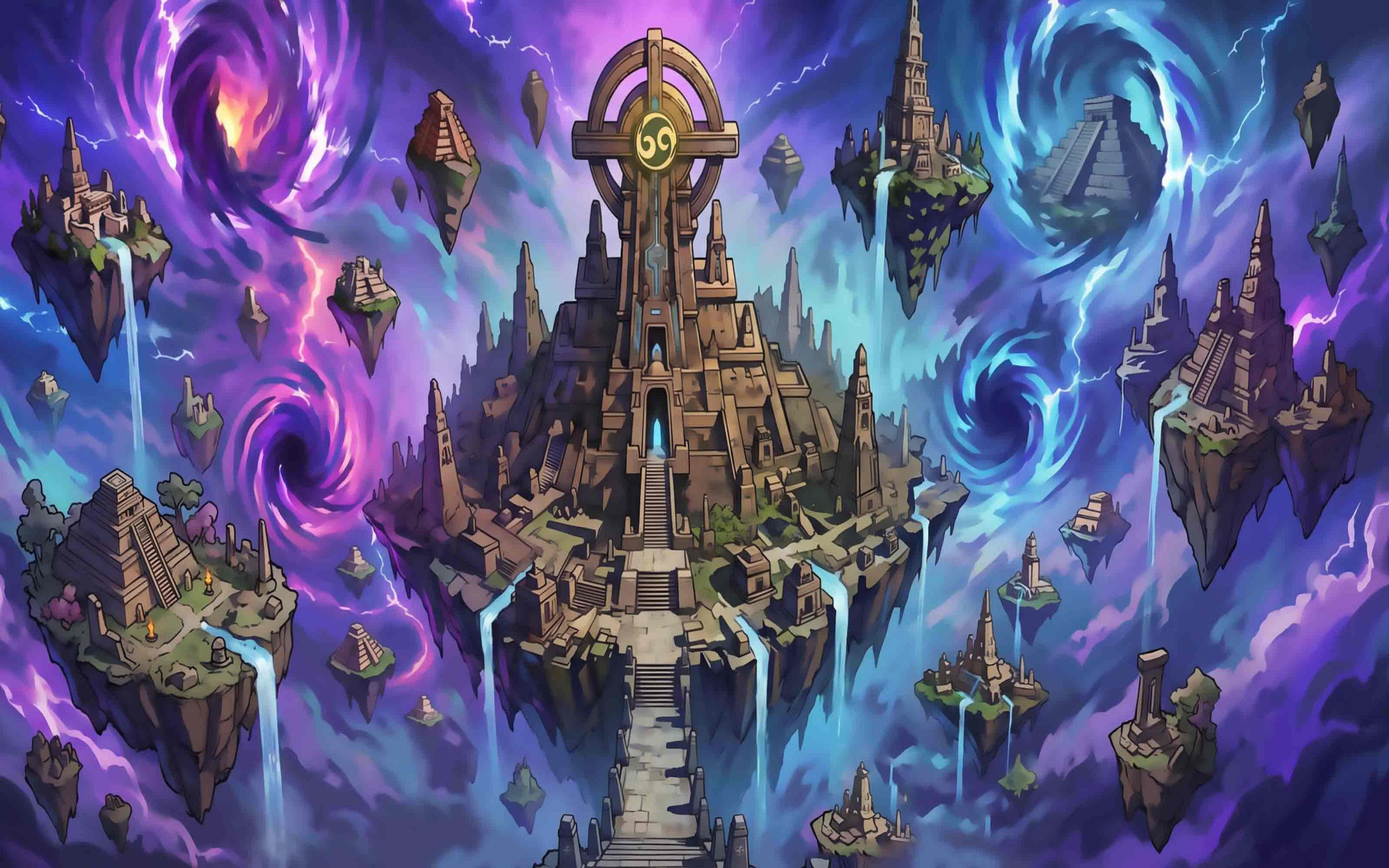
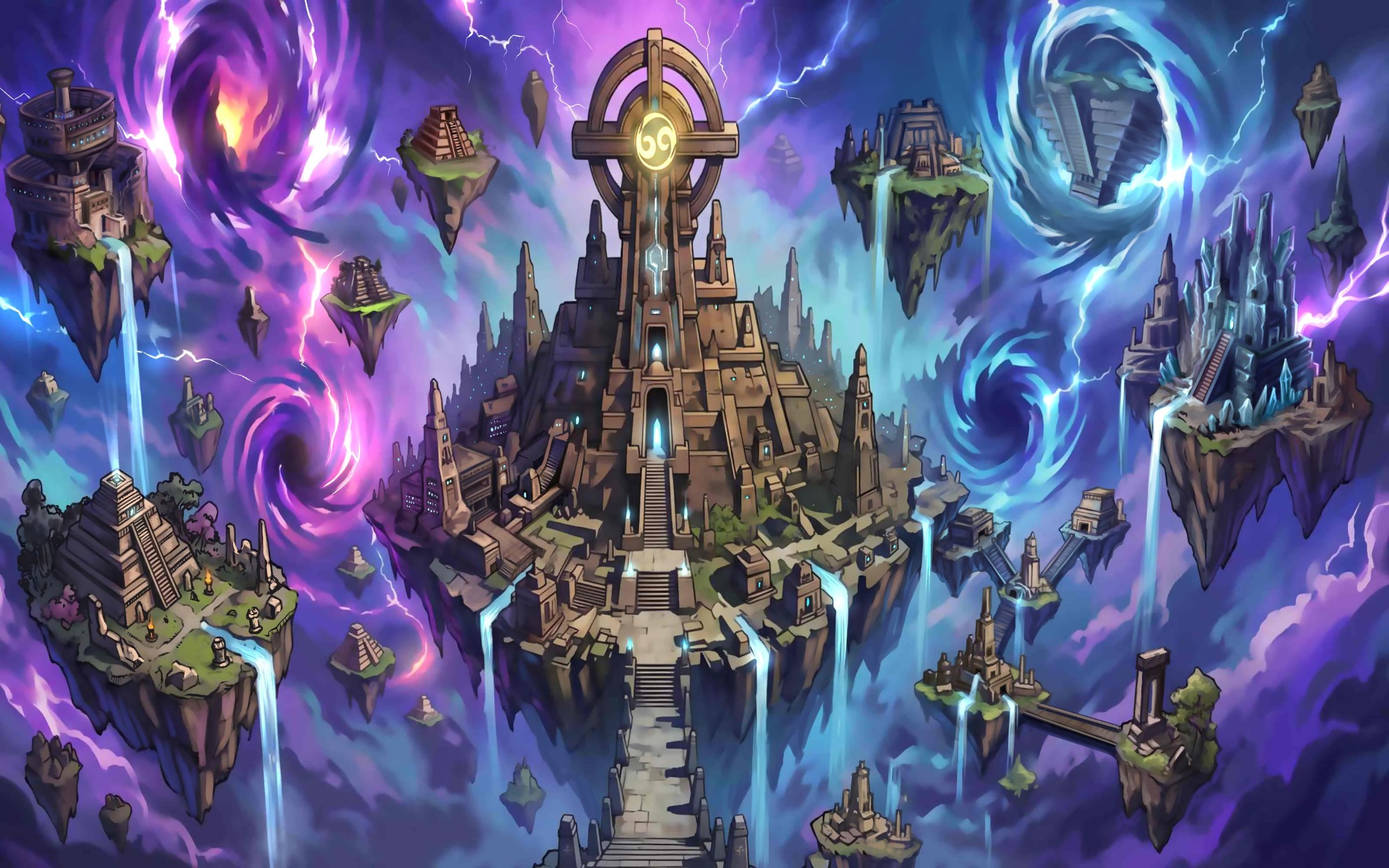
Add files via upload

diff --git a/nexotlan.html b/nexotlan.html
@@ -117,6 +117,39 @@ button{font-family:inherit;color:inherit;cursor:pointer;border:none;background:n
 .mapa::-webkit-scrollbar{display:none}
 .mapa.drag{cursor:grabbing}
 .mi{position:relative;margin:0 auto;transform-origin:0 0}
+/* v200 · Mapa animado (capaFx) */
+.mfx{position:absolute;inset:0;overflow:hidden;pointer-events:none;contain:strict}
+.mfx>*{position:absolute;will-change:transform,opacity}
+.fx-nube{left:-48%;opacity:var(--o);border-radius:50%;background:radial-gradient(ellipse at 50% 50%,rgba(232,220,255,.85),rgba(200,190,255,.35) 45%,transparent 70%);animation:fxCruza linear infinite}
+.fx-nube.niebla{background:radial-gradient(ellipse at 50% 55%,rgba(220,225,255,.9),rgba(205,200,255,.4) 45%,transparent 70%)}
+@keyframes fxCruza{from{transform:translateX(0)}to{transform:translateX(calc(100vw * 0 + 360%))}}
+.fx-niebla-base{left:0;right:0;bottom:0;height:22%;background:linear-gradient(to top,rgba(200,195,255,.42),transparent);animation:fxRespira 9s ease-in-out infinite}
+@keyframes fxDeriva{from{transform:translateX(0)}to{transform:translateX(-50%)}}
+@keyframes fxRespira{0%,100%{opacity:.55}50%{opacity:1}}
+.fx-remo{aspect-ratio:1;translate:-50% -50%;opacity:.2;border-radius:50%;
+  background:conic-gradient(from 0deg,transparent 0 8%,var(--c) 14%,transparent 26% 40%,var(--c) 48%,transparent 60% 74%,var(--c) 82%,transparent 94%);
+  -webkit-mask:radial-gradient(circle,transparent 12%,#000 26%,#000 46%,transparent 70%);mask:radial-gradient(circle,transparent 12%,#000 26%,#000 46%,transparent 70%);
+  animation:fxGira 26s linear infinite}
+.fx-remo:nth-of-type(even){animation-direction:reverse;animation-duration:34s}
+@keyframes fxGira{to{transform:rotate(360deg)}}
+.fx-brillo{aspect-ratio:1;translate:-50% -50%;border-radius:50%;background:radial-gradient(circle,var(--c) 0%,color-mix(in srgb,var(--c) 45%,transparent) 28%,transparent 68%);
+  animation:fxLatido ease-in-out infinite}
+@keyframes fxLatido{0%,100%{opacity:.32;transform:scale(.88)}50%{opacity:.85;transform:scale(1.08)}}
+.fx-agua{overflow:hidden;translate:-50% 0;opacity:.6;border-radius:40%;
+  -webkit-mask:linear-gradient(to bottom,transparent,#000 12%,#000 80%,transparent);mask:linear-gradient(to bottom,transparent,#000 12%,#000 80%,transparent)}
+.fx-agua i{position:absolute;left:0;right:0;top:0;height:35%;background:linear-gradient(to bottom,transparent,rgba(255,255,255,.75),transparent);animation:fxCae linear infinite}
+@keyframes fxCae{from{transform:translateY(-110%)}to{transform:translateY(300%)}}
+.fx-chispa{width:10px;height:10px;border-radius:50%;background:radial-gradient(circle,#fff 0 18%,var(--c) 30%,transparent 70%);opacity:0;animation:fxSube ease-in-out infinite}
+@keyframes fxSube{0%{opacity:0;transform:translate(0,0)}20%{opacity:.9}80%{opacity:.6}100%{opacity:0;transform:translate(14px,-90px)}}
+.fx-rayos{inset:0;width:100%;height:100%;will-change:auto}
+.fx-rayo polyline{fill:none;stroke-linejoin:round;stroke-linecap:round}
+.fx-rayo .f{fill:var(--c);opacity:.22}
+.fx-rayo .h{stroke:var(--c);stroke-width:18;opacity:.32}
+.fx-rayo .r{stroke:var(--c);stroke-width:3}
+.fx-rayo .n{stroke:#fff;stroke-width:3.6}
+.fx-rayo{animation:fxDestello .9s ease-out forwards}
+@keyframes fxDestello{0%{opacity:0}6%{opacity:1}14%{opacity:.15}22%{opacity:1}55%{opacity:.7}100%{opacity:0}}
+@media (prefers-reduced-motion:reduce){.mfx{display:none}}
 .mi>svg,.mi>img.fondo{position:absolute;inset:0;width:100%;height:100%;display:block}
 .mi>img.fondo{object-fit:cover}
 .lock-layer{position:absolute;inset:0;width:100%;height:100%;pointer-events:none}
@@ -1028,10 +1061,98 @@ const PIN = {
   guardian: c => `<svg viewBox="0 0 46 46"><circle cx="23" cy="23" r="20" fill="url(#rg)" stroke="#fff" stroke-width="3"/><defs><radialGradient id="rg" cx="40%" cy="35%"><stop offset="0" stop-color="#ff8aa2"/><stop offset=".55" stop-color="#ff2f5a"/><stop offset="1" stop-color="#8a0020"/></radialGradient></defs><path d="M23 9l4.2 8.6 9.4 1.3-6.8 6.6 1.6 9.4L23 30.4l-8.4 4.5 1.6-9.4-6.8-6.6 9.4-1.3z" fill="#ffd166" stroke="#7a3a00" stroke-width="1.5"/></svg>`
 };
 
+// ════════════════ MAPA ANIMADO (v200) ════════════════
+// Capas ligeras sobre la ilustración del mapa: neblina baja, nubes, relámpagos de energía, brillos que palpitan,
+// remolinos que giran, cascadas con reflejos y chispas flotantes. Solo transform/opacity (las mueve la tarjeta gráfica).
+// [config] de mapa.txt (todo opcional; sin campos se usan las posiciones del mapa de Nexotlan):
+//   fx            si | no   (no = mapa fijo)
+//   fx_brillos    x,y,tamaño,color | …        brillos que palpitan (en %, tamaño en % del ancho)
+//   fx_remolinos  x,y,tamaño,color | …        remolinos que giran despacio
+//   fx_cascadas   x,y_arriba,y_abajo,ancho | … reflejos que bajan por las cascadas
+//   fx_relampagos x,y | …                     zonas donde caen los relámpagos de energía
+const FX_DEF = {
+  brillos: '47,16,7,#ffd36a | 47,39,2.2,#7ff0ff | 47,49.5,2.6,#7ff0ff | 16,14,9,#ff9a3c | 20,47,8,#ff5ad2 | 78,13,9,#5fe6ff | 72,48,8,#4fa8ff | 10.5,72,1.4,#ffb347',
+  remolinos: '16.5,14,17,#c86bff | 20,47,15,#ff5ad2 | 78,14,18,#46d8ff | 72,48,15,#3f8cff',
+  cascadas: '9.5,26,52,.9 | 19.5,72,97,1.2 | 35,69,92,1.1 | 53.6,72,95,1.1 | 66,61,80,.9 | 63.6,20,37,.9 | 83.3,46,75,1 | 70,77,92,.8 | 72.4,78,91,.8',
+  relampagos: '9,7 | 24,30 | 37,4 | 57,6 | 62,3 | 66,28 | 85,7 | 90,20 | 96,37 | 30,44'
+};
+const FX_T0 = Date.now();
+const fxLista = (v, n) => String(v || '').split('|').map(s => s.split(',').map(x => x.trim())).filter(a => a.length >= n && a.slice(0, n).every(x => x !== '' && isFinite(+x)));
+const fxDelay = d => '-' + (((Date.now() - FX_T0) / 1000) % d).toFixed(2) + 's';   // las animaciones siguen donde iban aunque el mapa se vuelva a dibujar
+function fxActivo() {
+  if (/^(no|off|0|false)$/i.test(String(CFG.fx || '').trim())) return false;
+  try { if (matchMedia('(prefers-reduced-motion: reduce)').matches) return false; } catch (e) {}
+  return true;
+}
+function capaFx() {
+  if (!CFG.mapa || !fxActivo()) return '';
+  const V = k => (CFG['fx_' + k] != null && String(CFG['fx_' + k]).trim() !== '') ? CFG['fx_' + k] : FX_DEF[k];
+  let h = '';
+  // Nubes (arriba y en medio) y neblina baja: bandas suaves que se desplazan en ciclo
+  // Nubes (cielo) y neblina (parte baja): manchas suaves que cruzan el mapa despacio, repartidas en el tiempo
+  const NUBES = [[4, 30, 16, 120, .22], [18, 26, 14, 150, .18], [34, 34, 18, 110, .16], [46, 28, 15, 135, .2], [55, 24, 12, 160, .15]];   // y, ancho, alto, segundos, opacidad
+  NUBES.forEach(([y, w, hh, d, o], i) => { h += `<div class="fx-nube" style="top:${y}%;width:${w}%;height:${hh}%;--o:${o};animation-duration:${d}s;animation-delay:-${((Date.now() - FX_T0) / 1000 + d * i / NUBES.length) % d}s"></div>`; });
+  const NIEBLA = [[68, 40, 22, 80, .42], [74, 46, 24, 64, .5], [80, 38, 22, 92, .45], [86, 44, 20, 58, .5], [70, 34, 18, 104, .35], [90, 40, 18, 72, .55]];
+  NIEBLA.forEach(([y, w, hh, d, o], i) => { h += `<div class="fx-nube niebla" style="top:${y}%;width:${w}%;height:${hh}%;--o:${o};animation-duration:${d}s;animation-delay:-${((Date.now() - FX_T0) / 1000 + d * i / NIEBLA.length) % d}s${i % 2 ? ';animation-direction:reverse' : ''}"></div>`; });
+  h += `<div class="fx-niebla-base" style="animation-delay:${fxDelay(9)}"></div>`;
+  // Remolinos
+  fxLista(V('remolinos'), 3).forEach(([x, y, t, c], i) => {
+    h += `<div class="fx-remo" style="left:${x}%;top:${y}%;width:${t}%;--c:${/^#[0-9a-f]{3,8}$/i.test(c || '') ? c : '#c86bff'};animation-delay:${fxDelay(i % 2 ? 34 : 26)}"></div>`;
+  });
+  // Brillos que palpitan
+  fxLista(V('brillos'), 3).forEach(([x, y, t, c], i) => {
+    const d = 2.6 + (i % 4) * .7;
+    h += `<div class="fx-brillo" style="left:${x}%;top:${y}%;width:${t}%;--c:${/^#[0-9a-f]{3,8}$/i.test(c || '') ? c : '#ffd36a'};animation-duration:${d}s;animation-delay:${fxDelay(d)}"></div>`;
+  });
+  // Cascadas
+  fxLista(V('cascadas'), 3).forEach(([x, y1, y2, w], i) => {
+    const d = 1.6 + (i % 3) * .35;
+    h += `<div class="fx-agua" style="left:${x}%;top:${y1}%;height:${Math.max(1, y2 - y1)}%;width:${+w || 1}%"><i style="animation-duration:${d}s;animation-delay:${fxDelay(d)}"></i></div>`;
+  });
+  // Chispas de energía que flotan
+  for (let i = 0; i < 22; i++) {
+    const x = (i * 37 + 11) % 97 + 1.5, y = 30 + (i * 53) % 65, d = 9 + (i % 5) * 2.2;
+    h += `<i class="fx-chispa" style="left:${x}%;top:${y}%;animation-duration:${d}s;animation-delay:${fxDelay(d)};--c:${i % 3 ? '#9fe8ff' : '#e6a8ff'}"></i>`;
+  }
+  return `<div class="mfx" aria-hidden="true">${h}<svg class="fx-rayos" viewBox="0 0 1600 1000" preserveAspectRatio="xMidYMid slice"></svg></div>`;
+}
+// Relámpagos de energía: se dibujan al azar cada pocos segundos (solo si el mapa está a la vista)
+function fxRayo() {
+  const svg = document.querySelector('#mi .fx-rayos');
+  if (!svg || document.hidden || !$('sMapa').classList.contains('on')) return;
+  const V = (CFG.fx_relampagos != null && String(CFG.fx_relampagos).trim() !== '') ? CFG.fx_relampagos : FX_DEF.relampagos;
+  const Z = fxLista(V, 2); if (!Z.length) return;
+  const [zx, zy] = Z[Math.floor(Math.random() * Z.length)];
+  let x = +zx / 100 * MW, y = +zy / 100 * MH;
+  const ang = Math.random() * Math.PI * 2, largo = 130 + Math.random() * 190, pasos = 7 + Math.floor(Math.random() * 5);
+  const pts = [[x, y]]; let ramas = '';
+  for (let k = 1; k <= pasos; k++) {
+    const t = k / pasos, jit = (Math.random() - .5) * 46;
+    const px = x + Math.cos(ang) * largo * t + Math.cos(ang + Math.PI / 2) * jit, py = y + Math.sin(ang) * largo * t + Math.sin(ang + Math.PI / 2) * jit;
+    pts.push([px, py]);
+    if (k > 1 && k < pasos && Math.random() < .35) {   // ramita
+      const a2 = ang + (Math.random() < .5 ? -1 : 1) * (.5 + Math.random() * .6), l2 = 25 + Math.random() * 45;
+      ramas += `<polyline points="${px},${py} ${px + Math.cos(a2) * l2 * .5 + (Math.random() - .5) * 14},${py + Math.sin(a2) * l2 * .5 + (Math.random() - .5) * 14} ${px + Math.cos(a2) * l2},${py + Math.sin(a2) * l2}"/>`;
+    }
+  }
+  const col = Math.random() < .55 ? '#d29bff' : '#8af0ff';
+  const g = document.createElementNS('http://www.w3.org/2000/svg', 'g');
+  g.setAttribute('class', 'fx-rayo'); g.style.setProperty('--c', col);
+  g.innerHTML = `<circle class="f" cx="${x}" cy="${y}" r="50"/><polyline class="h" points="${pts.map(p => p.join(',')).join(' ')}"/>${ramas.replace(/<polyline /g, '<polyline class="r" ')}<polyline class="n" points="${pts.map(p => p.join(',')).join(' ')}"/>`;
+  svg.appendChild(g);
+  setTimeout(() => g.remove(), 900);
+}
+let _fxRayoT = null;
+function fxRayos() {
+  clearTimeout(_fxRayoT);
+  const sig = () => { _fxRayoT = setTimeout(() => { try { if (fxActivo()) { fxRayo(); if (Math.random() < .3) setTimeout(fxRayo, 140); } } catch (e) {} sig(); }, 1600 + Math.random() * 3800); };
+  sig();
+}
+
 // ════════════════ PINTAR MAPA ════════════════
 function pintarMapa() {
   const mi = $('mi');
-  const fondo = CFG.mapa ? `<img class="fondo" src="${esc(DIR + CFG.mapa)}" alt="" onerror="this.replaceWith(Object.assign(document.createElement('div'),{innerHTML:svgMapa()}).firstElementChild)">${capaBloqueo()}` : svgMapa();
+  const fondo = CFG.mapa ? `<img class="fondo" src="${esc(DIR + CFG.mapa)}" alt="" onerror="this.replaceWith(Object.assign(document.createElement('div'),{innerHTML:svgMapa()}).firstElementChild)">${capaFx()}${capaBloqueo()}` : svgMapa();
   const etq = DIST.map(d => { const ab = distritoAbierto(d), pr = progresoDistrito(d);
     const et = String(d.etiqueta || '').split(',').map(Number), lx = isFinite(et[0]) && et.length === 2 ? et[0] : d._x, ly = isFinite(et[1]) && et.length === 2 ? et[1] : d._y - d._r * .55;
     return `<div class="dlab ${ab ? '' : 'lock'}" style="left:${lx}%;top:${ly}%;--dc:${esc(d.color)}">${ab ? '' : '🔒 '}${esc(d.nombre || d.id)}${ab ? '<small>' + pr.ven + '/' + pr.tot + '</small>' : ''}</div>`; }).join('');
@@ -1997,7 +2118,7 @@ function mensaje(t, html, ops) {
 }
 // Muestra el mapa ya dimensionado (sin esto, al volver de un Choque el mapa quedaba de alto 0 y no se veían los puntos)
 function mostrarMapa() {
-  asegurarColeccion(); irA('sMapa'); cerrarFicha();
+  asegurarColeccion(); irA('sMapa'); cerrarFicha(); if (!_fxRayoT) fxRayos();
   pintarMapa(); ajustarZoom(ZOOM > 1 ? ZOOM : (ANCHO() < 700 ? 1.6 : 1));
   requestAnimationFrame(() => ajustarZoom(ZOOM));          // segunda medida, ya con el layout final
   musica(CFG.musica);

diff --git a/sw.js b/sw.js
@@ -61,7 +61,7 @@
 //  v8:   shell cache-first + revalidación, JSON red-primero, fallbacks por tipo.
 // ================================================================
 try { importScripts('./config.js'); } catch (e) {}   // direcciones de los servidores (config.js)
-const CACHE_NAME    = 'chh-tcg-v199';
+const CACHE_NAME    = 'chh-tcg-v200';
 const CACHE_DYNAMIC = 'chh-paginas-v1';    // estable: páginas/JSON/JS visitados (NO subir; lo precargado se renueva solo)
 const CACHE_IMG     = 'chh-img-v1';      // estable: imágenes, fuentes y PDFs. Subir SOLO si reemplazas imágenes con el mismo nombre
 const CACHE_AUDIO   = 'chh-audio-v1';    // estable: pistas de bgm.js. Subir SOLO si reemplazas un .mp3 con el mismo nombre
